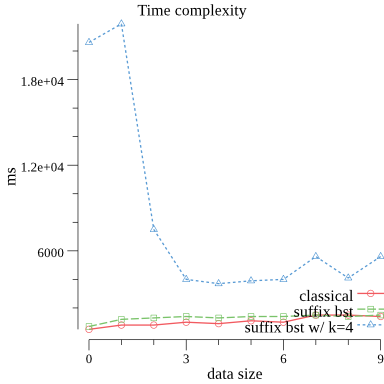
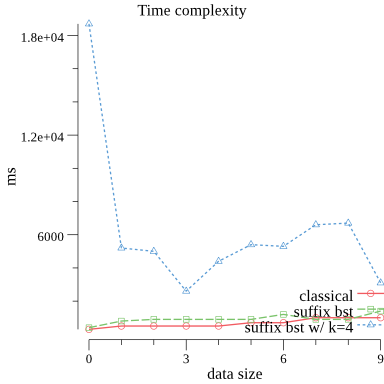
add start/end possibilities for binary search in the suffix tree

diff --git a/src/index/searchindex.go b/src/index/searchindex.go
@@ -3,25 +3,23 @@ package index
 import (
 	"runtime"
 	"strings"
+	"time"
 
 	"github.com/mathieunls/gainful/src/indexable"
 	gpbt "github.com/mathieunls/gpbt/src"
 )
 
+//SearchIndex indexes things
 type SearchIndex struct {
 	sa  *Index
 	bst gpbt.NavigableTree
 }
 
+//NewSearchIndex creates a new search index for the values
 func NewSearchIndex(values []indexable.HasStringIndex) *SearchIndex {
 
 	fs := &SearchIndex{}
-	fs.init(values)
 
-	return fs
-}
-
-func (fs *SearchIndex) init(values []indexable.HasStringIndex) {
 	keys := make([]int, len(values))
 	stringValues := make([]string, len(values))
 	currLength := 0
@@ -38,6 +36,8 @@ func (fs *SearchIndex) init(values []indexable.HasStringIndex) {
 	joinedStrings := "" + strings.Join(stringValues, "")
 
 	fs.sa = New([]byte(joinedStrings))
+
+	return fs
 }
 
 //newTree purpose is to be overrided by other Indexes
@@ -51,28 +51,107 @@ func (fs *SearchIndex) newTree(keys []int, values []indexable.HasStringIndex, so
 	fs.bst = gpbt.NewTree(keys, interfaceSlice, sorted)
 }
 
+//Lookup searches for the search string with respect to
+//start and end which represent indexes in the suffix tree.
+//They can be used to build pagination
+//n limits to n the number of the matches in the suffix tree that will
+//be investigated further. Each inxdexed object can have many matches.
+//Consequently, n is not necessary equal to len(results).
+//sort is a function that can be defined to sort the results
+//according to user preferences.
+//
+//Lookup returns the elapsed time for the query, the number of item found
+//The last index for the
 func (fs *SearchIndex) Lookup(
 	search string,
+	start int,
+	end int,
 	n int,
-	sort func([]indexable.HasStringIndex) []indexable.HasStringIndex) []indexable.HasStringIndex {
+	sort func([]indexable.HasStringIndex) []indexable.HasStringIndex,
+) (
+	elapsedTime int64,
+	resultsCount int,
+	lastIndex int,
+	results []indexable.HasStringIndex,
+) {
 
-	results := []indexable.HasStringIndex{}
+	startTime := time.Now()
 	s := []byte(search)
 
 	if len(s) > 0 && n != 0 {
-		matches := fs.sa.lookupAll(s)
-		results = fs.findPara(matches)
+		matches := fs.sa.lookupAll(s, start, end)
 
 		if n == -1 {
-			n = len(results)
+			n = len(matches)
 		}
+
+		resultsCount = len(results)
 
 		if sort == nil {
-			return results[0:n]
+			return time.Since(startTime).Nanoseconds(), resultsCount, matches[n-1], results
 		}
-		return sort(results)[0:n]
+		return time.Since(startTime).Nanoseconds(), resultsCount, matches[n-1], sort(results)
 
 	}
+	return time.Since(startTime).Nanoseconds(), 0, 0, results
+}
+
+//Facet creates an faceted hashmap according to the
+//result of the facetableField function.
+//The facetableField function can't be nil.
+//The results used to created to faceted results are the one
+//from the Lookup function.
+//The reader should refer to it to understand the parameters.
+func (fs *SearchIndex) Facet(
+	search string,
+	start int,
+	end int,
+	n int,
+	facetableField func(indexable.HasStringIndex) string,
+	sort func([]indexable.HasStringIndex) []indexable.HasStringIndex,
+) (
+	elapsedTime int64,
+	resultsCount int,
+	lastIndex int,
+	facets map[string][]indexable.HasStringIndex,
+) {
+
+	elapsedTime, resultsCount, lastIndex, results := fs.Lookup(search, start, end, n, sort)
+	startTime := time.Now()
+	facets = make(map[string][]indexable.HasStringIndex)
+
+	for _, r := range results {
+
+		facetableValue := facetableField(r)
+		if _, present := facets[facetableField(r)]; !present {
+			facets[facetableValue] = []indexable.HasStringIndex{r}
+		} else {
+
+			facets[facetableValue] = append(facets[facetableValue], r)
+		}
+	}
+
+	return elapsedTime + time.Since(startTime).Nanoseconds(), resultsCount, lastIndex, facets
+}
+
+//FindSequential is a sequential version of Lookup and allows
+//to check the sanity and efficiency of the || algorithms.
+func (fs *SearchIndex) FindSequential(search string, start int, n int) []indexable.HasStringIndex {
+
+	offsets := fs.sa.Lookup([]byte(search), n, start)
+	results := []indexable.HasStringIndex{}
+	knownKeys := make(map[int]struct{})
+
+	for _, off := range offsets {
+
+		node, err := fs.bst.FloorKey(off)
+
+		if _, present := knownKeys[node.Key]; !present && err == nil {
+			knownKeys[node.Key] = struct{}{}
+			results = append(results, node.Value.(indexable.HasStringIndex))
+		}
+	}
+
 	return results
 }
 
@@ -102,25 +181,6 @@ func (fs *SearchIndex) findPara(offsets []int) []indexable.HasStringIndex {
 				knownKeys[node.Key] = struct{}{}
 				results = append(results, node.Value.(indexable.HasStringIndex))
 			}
-		}
-	}
-
-	return results
-}
-
-func (fs *SearchIndex) FindSequential(search string, n int) []indexable.HasStringIndex {
-
-	offsets := fs.sa.Lookup([]byte(search), n)
-	results := []indexable.HasStringIndex{}
-	knownKeys := make(map[int]struct{})
-
-	for _, off := range offsets {
-
-		node, err := fs.bst.FloorKey(off)
-
-		if _, present := knownKeys[node.Key]; !present && err == nil {
-			knownKeys[node.Key] = struct{}{}
-			results = append(results, node.Value.(indexable.HasStringIndex))
 		}
 	}
 

diff --git a/src/index/searchindex_test.go b/src/index/searchindex_test.go
@@ -34,41 +34,41 @@ func TestNew(t *testing.T) {
 	i := NewSearchIndex(indexables)
 
 	//a word
-	results := i.Lookup("sky", -1, nil)
+	_, _, _, results := i.Lookup("sky", 0, -1, -1, nil)
 
 	if len(results) != 1 || results[0].StringIndex() != values[0] {
 		t.Error("expected", values[0], "got", results)
 	}
 
 	//word in middle with many matches
-	results = i.Lookup("where", -1, nil)
+	_, _, _, results = i.Lookup("where", 0, -1, -1, nil)
 
 	if len(results) != 2 || results[0].StringIndex() != values[4] || results[1].StringIndex() != values[7] {
 		t.Error("expected", values[4], "got", results)
 	}
 
 	//reduce the matches
-	results = i.Lookup("where", 1, nil)
+	_, _, _, results = i.Lookup("where", 0, -1, 1, nil)
 
 	if len(results) != 1 || results[0].StringIndex() != values[4] {
 		t.Error("expected", values[4], "got", results)
 	}
 
 	//end words
-	results = i.Lookup("lie.", -1, nil)
+	_, _, _, results = i.Lookup("lie.", 0, -1, -1, nil)
 	if len(results) != 2 || results[0].StringIndex() != values[4] || results[1].StringIndex() != values[7] {
 		t.Error("expected", values[4], "got", results)
 	}
 
 	//start words
-	results = i.Lookup("In", -1, nil)
+	_, _, _, results = i.Lookup("In", 0, -1, -1, nil)
 
 	if len(results) != 2 || results[0].StringIndex() != values[4] || results[1].StringIndex() != values[7] {
 		t.Error("expected", values[4], "got", results)
 	}
 
 	//One sentence with multiple match - erased
-	results = i.Lookup("One", -1, nil)
+	_, _, _, results = i.Lookup("One", 0, -1, -1, nil)
 
 	if len(results) != 3 {
 		t.Error("expected 3 got", results)
@@ -98,41 +98,41 @@ func TestNewSequential(t *testing.T) {
 	i := NewSearchIndex(indexables)
 
 	//a word
-	results := i.FindSequential("sky", -1)
+	results := i.FindSequential("sky", 10, -1)
 
 	if len(results) != 1 || results[0].StringIndex() != values[0] {
 		t.Error("expected", values[0], "got", results)
 	}
 
 	//word in middle with many matches
-	results = i.FindSequential("where", -1)
+	results = i.FindSequential("where", 0, -1)
 
 	if len(results) != 2 || results[0].StringIndex() != values[4] || results[1].StringIndex() != values[7] {
 		t.Error("expected", values[4], "got", results)
 	}
 
 	//reduce the matches
-	results = i.FindSequential("where", 1)
+	results = i.FindSequential("where", 0, 1)
 
 	if len(results) != 1 || results[0].StringIndex() != values[4] {
 		t.Error("expected", values[4], "got", results)
 	}
 
 	//end words
-	results = i.FindSequential("lie.", -1)
+	results = i.FindSequential("lie.", 0, -1)
 	if len(results) != 2 || results[0].StringIndex() != values[4] || results[1].StringIndex() != values[7] {
 		t.Error("expected", values[4], "got", results)
 	}
 
 	//start words
-	results = i.FindSequential("In", -1)
+	results = i.FindSequential("In", 0, -1)
 
 	if len(results) != 2 || results[0].StringIndex() != values[4] || results[1].StringIndex() != values[7] {
 		t.Error("expected", values[4], "got", results)
 	}
 
 	//One sentence with multiple match - erased
-	results = i.FindSequential("One", -1)
+	results = i.FindSequential("One", 0, -1)
 
 	if len(results) != 3 {
 		t.Error("expected 3 got", results)
@@ -212,14 +212,14 @@ func sequential(data []interface{}) {
 
 	f := data[0].(*SearchIndex)
 	word := data[1].(string)
-	f.FindSequential(word, -1)
+	f.FindSequential(word, 0, -1)
 	f = nil
 }
 
 func parralel(data []interface{}) {
 	f := data[0].(*SearchIndex)
 	word := data[1].(string)
-	f.Lookup(word, -1, nil)
+	f.Lookup(word, 0, -1, -1, nil)
 	f = nil
 }
 

diff --git a/src/index/suffixarray.go b/src/index/suffixarray.go
@@ -167,15 +167,37 @@ func (x *Index) Bytes() []byte {
 }
 
 func (x *Index) at(i int) []byte {
+
 	return x.data[x.sa[i]:]
+}
+
+func searchWithMin(min int, n int, f func(int) bool) int {
+	// Define f(-1) == false and f(n) == true.
+	// Invariant: f(i-1) == false, f(j) == true.
+	i, j := min, n
+	for i < j {
+		h := i + (j-i)/2 // avoid overflow when computing h
+		// i ≤ h < j
+		if !f(h) {
+			i = h + 1 // preserves f(i-1) == false
+		} else {
+			j = h // preserves f(j) == true
+		}
+	}
+	// i == j, f(i-1) == false, and f(j) (= f(i)) == true  =>  answer is i.
+	return i
 }
 
 // lookupAll returns a slice into the matching region of the index.
 // The runtime is O(log(N)*len(s)).
-func (x *Index) lookupAll(s []byte) []int {
+func (x *Index) lookupAll(s []byte, start int, end int) []int {
+
+	if end > len(x.sa) || end == -1 {
+		end = len(x.sa)
+	}
 	// find matching suffix index range [i:j]
 	// find the first index where s would be the prefix
-	i := sort.Search(len(x.sa), func(i int) bool { return bytes.Compare(x.at(i), s) >= 0 })
+	i := searchWithMin(start, end, func(i int) bool { return bytes.Compare(x.at(i), s) >= 0 })
 	// starting at i, find the first index at which s is not a prefix
 	j := i + sort.Search(len(x.sa)-i, func(j int) bool { return !bytes.HasPrefix(x.at(j+i), s) })
 	return x.sa[i:j]
@@ -187,9 +209,9 @@ func (x *Index) lookupAll(s []byte) []int {
 // Lookup time is O(log(N)*len(s) + len(result)) where N is the
 // size of the indexed data.
 //
-func (x *Index) Lookup(s []byte, n int) (result []int) {
+func (x *Index) Lookup(s []byte, n int, start int) (result []int) {
 	if len(s) > 0 && n != 0 {
-		matches := x.lookupAll(s)
+		matches := x.lookupAll(s, start, -1)
 		if n < 0 || len(matches) < n {
 			n = len(matches)
 		}
@@ -230,7 +252,7 @@ func (x *Index) FindAllIndex(r *regexp.Regexp, n int) (result [][]int) {
 		// indices in the first place (if it returned fewer than that then
 		// there cannot be more).
 		for n1 := n; ; n1 += 2 * (n - len(result)) /* overflow ok */ {
-			indices := x.Lookup(lit, n1)
+			indices := x.Lookup(lit, n1, 0)
 			if len(indices) == 0 {
 				return
 			}
@@ -274,7 +296,7 @@ func (x *Index) FindAllIndex(r *regexp.Regexp, n int) (result [][]int) {
 
 	// same comment about Lookup applies here as in the loop above
 	for n1 := n; ; n1 += 2 * (n - len(result)) /* overflow ok */ {
-		indices := x.Lookup(lit, n1)
+		indices := x.Lookup(lit, n1, 0)
 		if len(indices) == 0 {
 			return
 		}

diff --git a/src/index/fast.go b/src/index/fast.go
@@ -12,7 +12,6 @@ type FastIndex struct {
 func NewFastIndex(values []indexable.HasStringIndex) *FastIndex {
 
 	fs := &FastIndex{}
-	fs.init(values)
 	return fs
 }
 
